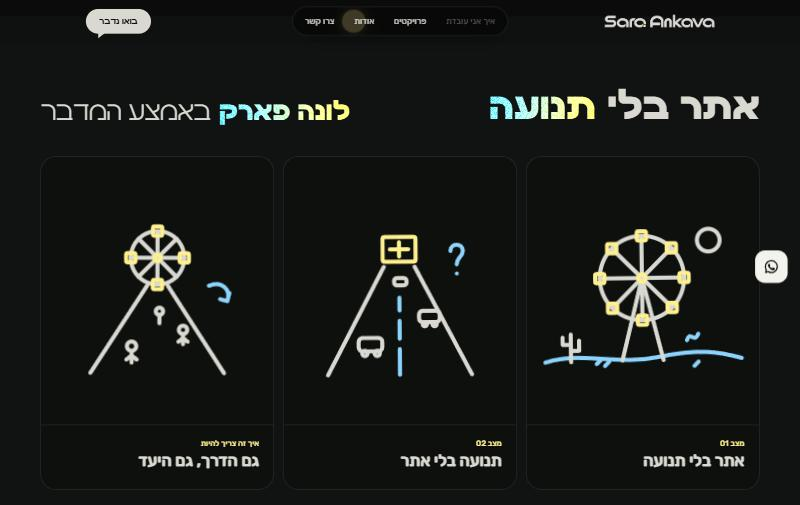
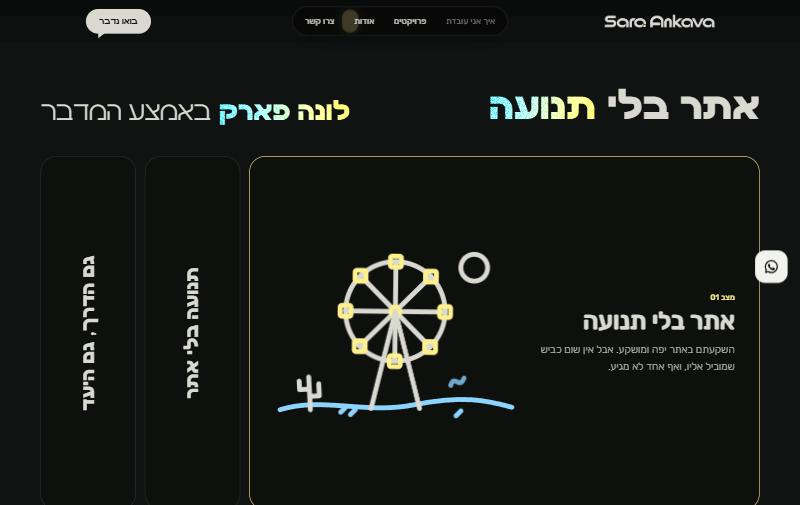
v6: comic as accordion like projects, first open with animated drawing and text

diff --git a/versions/v6/index.html b/versions/v6/index.html
@@ -18,7 +18,7 @@
 <link rel="preload" href="assets/fonts/SaraAnkava-Bold-v1.2.woff2" as="font" type="font/woff2" crossorigin>
 <link rel="stylesheet" href="assets/css/style.css?v=6">
 <link rel="stylesheet" href="assets/css/v4.css?v=4">
-<link rel="stylesheet" href="assets/css/v6.css?v=55">
+<link rel="stylesheet" href="assets/css/v6.css?v=57">
 <meta name="robots" content="noindex">
 <script>document.documentElement.classList.add('js');setTimeout(function(){if(!window.__saReady)document.documentElement.classList.remove('js')},3000)</script>
 <script type="application/ld+json">
@@ -164,10 +164,10 @@
   <svg width="0" height="0" style="position:absolute" aria-hidden="true"><filter id="mk2" x="-3%" y="-3%" width="106%" height="106%"><feTurbulence type="fractalNoise" baseFrequency=".012" numOctaves="1" seed="3"/><feDisplacementMap in="SourceGraphic" scale="2.4"/></filter></svg>
   <section class="cx" id="why" aria-labelledby="why-title">
     <h2 class="cx__title" id="why-title"><span class="cx__a">אתר בלי <span class="gr gr-text">תנועה</span></span><span class="cx__b"><span class="gr gr-text">לונה פארק</span> באמצע המדבר</span></h2>
-    <div class="cx__row">
-      <article tabindex="0" class="cx__f cx__f1"><div class="cx__art"><svg viewBox="0 0 400 330" aria-hidden="true"><g class="mkr"><path class="b" d="M10 292C80 270 150 300 230 284S350 276 392 288"/><circle class="s" cx="200" cy="130" r="82"/><path d="M200 130L282 130M200 130L258 72M200 130L200 48M200 130L142 72M200 130L118 130M200 130L142 188M200 130L200 212M200 130L258 188"/><path d="M200 130L160 290M200 130L240 290"/><rect class="y" x="273" y="121" width="18" height="18" rx="3" /><rect class="y" x="249" y="63" width="18" height="18" rx="3" /><rect class="y" x="191" y="39" width="18" height="18" rx="3" /><rect class="y" x="133" y="63" width="18" height="18" rx="3" /><rect class="y" x="109" y="121" width="18" height="18" rx="3" /><rect class="y" x="133" y="179" width="18" height="18" rx="3" /><rect class="y" x="191" y="203" width="18" height="18" rx="3" /><rect class="y" x="249" y="179" width="18" height="18" rx="3" /><circle class="y" cx="200" cy="130" r="7"/><circle cx="330" cy="58" r="22"/><path d="M60 292V238M60 258H44V244M60 270H76V250"/><path d="M110 296l8-8M126 300l8-8M300 302l8-8" class="b"/><path d="M286 252c6-20 14 8 22-12" class="b"/></g></svg><span class="cx__n">01</span></div><div class="cx__cap"><span class="cx__lab">מצב 01</span><h3>אתר בלי תנועה</h3><p>השקעתם באתר יפה ומושקע. אבל אין שום כביש שמוביל אליו, ואף אחד לא מגיע.</p></div></article>
-      <article tabindex="0" class="cx__f cx__f2"><div class="cx__art"><svg viewBox="0 0 400 330" aria-hidden="true"><g class="mkr"><path d="M60 320L170 110M340 320L230 110"/><path class="b" d="M200 320V270M200 250V215M200 195V170" stroke-dasharray="1 0"/><rect class="y" x="168" y="52" width="64" height="48" rx="4" fill="none"/><path class="y" d="M182 76h36M200 62v28" /><rect x="120" y="248" width="46" height="26" rx="8"/><circle cx="132" cy="278" r="5"/><circle cx="156" cy="278" r="5"/><rect x="238" y="196" width="40" height="22" rx="7"/><circle cx="249" cy="222" r="4"/><circle cx="268" cy="222" r="4"/><rect x="190" y="132" width="24" height="14" rx="5"/><path class="b" d="M300 80c0-16 24-16 24 0c0 12-12 12-12 26M312 124h.1"/></g></svg><span class="cx__n">02</span></div><div class="cx__cap"><span class="cx__lab">מצב 02</span><h3>תנועה בלי אתר</h3><p>כבישים מושלמים שמובילים לשטח ריק. משלמים על פרסום, האנשים מגיעים, ואין להם מה לעשות כשהם שם.</p></div></article>
-      <article tabindex="0" class="cx__f cx__f3"><div class="cx__art"><svg viewBox="0 0 400 330" aria-hidden="true"><g class="mkr"><path d="M70 320L180 150M330 320L220 150"/><circle class="s" cx="200" cy="96" r="52"/><path d="M200 96L252 96M200 96L237 59M200 96L200 44M200 96L163 59M200 96L148 96M200 96L163 133M200 96L200 148M200 96L237 133"/><rect class="y" x="243" y="87" width="18" height="18" rx="3"/><rect class="y" x="191" y="35" width="18" height="18" rx="3"/><rect class="y" x="139" y="87" width="18" height="18" rx="3"/><rect class="y" x="191" y="139" width="18" height="18" rx="3"/><circle class="y" cx="200" cy="96" r="6"/><circle cx="150" cy="268" r="9"/><path d="M150 278v22M150 286l-10 8M150 286l10 8"/><circle cx="250" cy="236" r="8"/><path d="M250 244v20M250 252l-9 7M250 252l9 7"/><circle cx="204" cy="200" r="7"/><path d="M204 207v16"/><path class="b" d="M300 150c24-10 44 6 36 30M336 180l-14-4M336 180l4-16"/></g></svg><span class="cx__n">03</span></div><div class="cx__cap"><span class="cx__lab">איך זה צריך להיות</span><h3>גם הדרך, גם היעד</h3><p>קודם מבינים את העסק. אחר כך בונים את שני החלקים יחד: תוכנית שיווק שמביאה אנשים, ונכס דיגיטלי שהופך אותם ללקוחות.</p></div></article>
+    <div class="cx__row" data-acc-wrap>
+      <article tabindex="0" data-acc class="cx__f cx__f1 is-open"><div class="cx__rail" aria-hidden="true"><span>אתר בלי תנועה</span></div><div class="cx__in"><div class="cx__cap"><span class="cx__lab">מצב 01</span><h3>אתר בלי תנועה</h3><p>השקעתם באתר יפה ומושקע. אבל אין שום כביש שמוביל אליו, ואף אחד לא מגיע.</p></div><div class="cx__art"><svg viewBox="0 0 400 330" aria-hidden="true"><g class="mkr"><path class="b sand" d="M10 292C80 270 150 300 230 284S350 276 392 288"/><g class="wh"><circle cx="200" cy="130" r="82"/><path d="M200 130L282 130M200 130L258 72M200 130L200 48M200 130L142 72M200 130L118 130M200 130L142 188M200 130L200 212M200 130L258 188"/><rect class="y" x="273" y="121" width="18" height="18" rx="3"/><rect class="y" x="249" y="63" width="18" height="18" rx="3"/><rect class="y" x="191" y="39" width="18" height="18" rx="3"/><rect class="y" x="133" y="63" width="18" height="18" rx="3"/><rect class="y" x="109" y="121" width="18" height="18" rx="3"/><rect class="y" x="133" y="179" width="18" height="18" rx="3"/><rect class="y" x="191" y="203" width="18" height="18" rx="3"/><rect class="y" x="249" y="179" width="18" height="18" rx="3"/><circle class="y" cx="200" cy="130" r="7"/></g><path d="M200 130L160 290M200 130L240 290"/><circle class="sun" cx="330" cy="58" r="22"/><path class="cac" d="M60 292V238M60 258H44V244M60 270H76V250"/><path class="b dust" d="M110 296l8-8M126 300l8-8M300 302l8-8"/><path class="b dust2" d="M286 252c6-20 14 8 22-12"/></g></svg></div></div></article>
+      <article tabindex="0" data-acc class="cx__f cx__f2"><div class="cx__rail" aria-hidden="true"><span>תנועה בלי אתר</span></div><div class="cx__in"><div class="cx__cap"><span class="cx__lab">מצב 02</span><h3>תנועה בלי אתר</h3><p>כבישים מושלמים שמובילים לשטח ריק. משלמים על פרסום, האנשים מגיעים, ואין להם מה לעשות כשהם שם.</p></div><div class="cx__art"><svg viewBox="0 0 400 330" aria-hidden="true"><g class="mkr"><path d="M60 320L170 110M340 320L230 110"/><path class="b road" d="M200 320V270M200 250V215M200 195V170"/><rect class="y" x="168" y="52" width="64" height="48" rx="4"/><path class="y" d="M182 76h36M200 62v28"/><g class="car c1"><rect x="120" y="248" width="46" height="26" rx="8"/><circle cx="132" cy="278" r="5"/><circle cx="156" cy="278" r="5"/></g><g class="car c2"><rect x="238" y="196" width="40" height="22" rx="7"/><circle cx="249" cy="222" r="4"/><circle cx="268" cy="222" r="4"/></g><g class="car c3"><rect x="190" y="132" width="24" height="14" rx="5"/></g><path class="b qm" d="M300 80c0-16 24-16 24 0c0 12-12 12-12 26M312 124h.1"/></g></svg></div></div></article>
+      <article tabindex="0" data-acc class="cx__f cx__f3"><div class="cx__rail" aria-hidden="true"><span>גם הדרך, גם היעד</span></div><div class="cx__in"><div class="cx__cap"><span class="cx__lab">איך זה צריך להיות</span><h3>גם הדרך, גם היעד</h3><p>קודם מבינים את העסק. אחר כך בונים את שני החלקים יחד: תוכנית שיווק שמביאה אנשים, ונכס דיגיטלי שהופך אותם ללקוחות.</p></div><div class="cx__art"><svg viewBox="0 0 400 330" aria-hidden="true"><g class="mkr"><path d="M70 320L180 150M330 320L220 150"/><g class="wh wh3"><circle cx="200" cy="96" r="52"/><path d="M200 96L252 96M200 96L237 59M200 96L200 44M200 96L163 59M200 96L148 96M200 96L163 133M200 96L200 148M200 96L237 133"/><rect class="y" x="243" y="87" width="18" height="18" rx="3"/><rect class="y" x="191" y="35" width="18" height="18" rx="3"/><rect class="y" x="139" y="87" width="18" height="18" rx="3"/><rect class="y" x="191" y="139" width="18" height="18" rx="3"/><circle class="y" cx="200" cy="96" r="6"/></g><g class="pp p1"><circle cx="150" cy="268" r="9"/><path d="M150 278v22M150 286l-10 8M150 286l10 8"/></g><g class="pp p2"><circle cx="250" cy="236" r="8"/><path d="M250 244v20M250 252l-9 7M250 252l9 7"/></g><g class="pp p3"><circle cx="204" cy="200" r="7"/><path d="M204 207v16"/></g><path class="b hrt" d="M300 150c24-10 44 6 36 30M336 180l-14-4M336 180l4-16"/></g></svg></div></div></article>
     </div>
   </section>
 
@@ -403,5 +403,6 @@
 <script src="assets/js/header.js?v=4" defer></script>
 <script src="assets/js/v4.js?v=2" defer></script>
 <script>if(location.hash==="#still"){var s=document.createElement("style");s.textContent=".hb__l,.hb__small,.hb__card,.hb__badge{animation:none!important;transform:none!important;opacity:1!important}.hb__badge{transform:none!important}.ar{animation:none!important;stroke-dashoffset:0!important}";document.head.appendChild(s)}</script>
+<script>(function(){var r=document.querySelector(".cx__row");if(!r)return;var it=[].slice.call(r.querySelectorAll(".cx__f"));function open(x){it.forEach(function(y){y.classList.toggle("is-open",y===x)})}it.forEach(function(x){x.addEventListener("pointerenter",function(){if(matchMedia("(min-width:901px)").matches)open(x)});x.addEventListener("focusin",function(){open(x)});x.addEventListener("click",function(){open(x)})})})()</script>
 </body>
 </html>

diff --git a/versions/v6/assets/css/v6.css b/versions/v6/assets/css/v6.css
@@ -382,3 +382,40 @@ body::before,body::after{display:none!important}
 .cx__cap p{color:rgb(217 217 210 / .85);max-height:0;opacity:0;margin:0;overflow:hidden;transition:max-height .7s var(--ease),opacity .5s .1s,margin .5s}
 .cx__f:hover .cx__cap p,.cx__f:focus-visible .cx__cap p{max-height:200px;opacity:1;margin-top:8px}
 @media (max-width:900px){.cx__row{flex-direction:column;height:auto}.cx__f{flex:none}.cx__cap p{max-height:none;opacity:1;margin-top:8px}.cx__art{padding-top:20px}}
+
+/* ===== עדכון: אקורדיון קומיקס כמו הפרויקטים: עמודה ראשונה פתוחה עם איור מונפש וטקסט, השאר נפתחות בהובר ===== */
+.cx__row{display:flex;gap:clamp(10px,1.2vw,16px);height:clamp(500px,70vh,640px)}
+.cx__f{position:relative;display:block;flex:1 1 0;min-width:0;transition:flex-grow .85s var(--ease),border-color .5s}
+.cx__f.is-open{flex-grow:5.4;border-color:var(--v6-sun)!important}
+.cx__f:hover:not(.is-open){flex-grow:1}
+.cx__rail{position:absolute;inset:0;display:grid;place-items:center;transition:opacity .4s}
+.cx__rail span{writing-mode:vertical-rl;transform:rotate(180deg);font:700 clamp(22px,2.2vw,34px) "Sara Ankava",system-ui,sans-serif;color:var(--v6-stone);white-space:nowrap}
+.cx__f.is-open .cx__rail{opacity:0;pointer-events:none}
+.cx__in{position:absolute;inset:0;display:grid;grid-template-columns:minmax(0,.9fr) minmax(0,1.1fr);align-items:center;gap:clamp(16px,2.4vw,40px);padding:clamp(24px,3vw,48px);opacity:0;pointer-events:none;transition:opacity .45s}
+.cx__f.is-open .cx__in{opacity:1;pointer-events:auto;transition-delay:.35s}
+.cx__cap{border:0;padding:0;align-self:center}
+.cx__cap h3{font-size:clamp(28px,3vw,48px);margin:6px 0 14px}
+.cx__cap p{max-height:none;opacity:1;margin:0;font-size:clamp(16px,1.3vw,20px);line-height:1.55}
+.cx__art{padding:0;display:grid;place-items:center}
+.cx__art svg{animation:none;max-height:100%}
+/* תנועה באיורים */
+.wh{transform-box:fill-box;transform-origin:center;animation:cx-spin 26s linear infinite}
+.wh3{animation-duration:20s}
+@keyframes cx-spin{to{transform:rotate(360deg)}}
+.sun{animation:cx-sun 5s ease-in-out infinite alternate}
+@keyframes cx-sun{to{transform:translateY(-8px)}}
+.cac{transform-box:fill-box;transform-origin:50% 100%;animation:cx-sway 4s ease-in-out infinite alternate}
+@keyframes cx-sway{from{transform:rotate(-3deg)}to{transform:rotate(3deg)}}
+.dust,.dust2{animation:cx-dust 3.4s ease-in-out infinite alternate}
+.dust2{animation-delay:-1.4s}
+@keyframes cx-dust{to{transform:translateX(14px);opacity:.4}}
+.car{animation:cx-drive 5s linear infinite}
+.c2{animation-delay:-1.7s}.c3{animation-delay:-3.2s}
+@keyframes cx-drive{0%{transform:translateY(46px);opacity:0}15%{opacity:1}85%{opacity:1}100%{transform:translateY(-110px);opacity:0}}
+.qm{transform-box:fill-box;transform-origin:50% 100%;animation:cx-sway 2.6s ease-in-out infinite alternate}
+.pp{transform-box:fill-box;transform-origin:50% 100%;animation:cx-hop 1.8s ease-in-out infinite}
+.p2{animation-delay:-.6s}.p3{animation-delay:-1.2s}
+@keyframes cx-hop{50%{transform:translateY(-8px)}}
+.hrt{animation:cx-dust 3s ease-in-out infinite alternate}
+@media (prefers-reduced-motion:reduce){.wh,.sun,.cac,.dust,.dust2,.car,.qm,.pp,.hrt{animation:none}}
+@media (max-width:900px){.cx__row{height:auto;flex-direction:column}.cx__f{flex:none}.cx__rail{display:none}.cx__in{position:relative;opacity:1;pointer-events:auto;grid-template-columns:1fr}}
